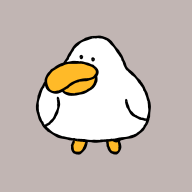
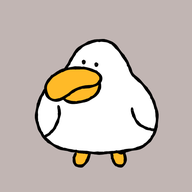
Apply duck mascot visual design

Changed region(s): [[0.1562, 0.1562, 0.8438, 0.875]]

diff --git a/style.css b/style.css
@@ -308,3 +308,38 @@ input[type="month"]::-webkit-calendar-picker-indicator{
   box-shadow:0 0 0 1px #111 inset;
   font-weight:600;
 }
+
+
+/* ===== v8 Duck visual system ===== */
+:root{
+  --duck-bg:#c5bab6;--duck-paper:#fffdfa;--duck-paper-2:#f7f2ed;
+  --duck-yellow:#ffbd2e;--duck-yellow-dark:#eda818;--duck-ink:#111111;
+  --duck-muted:#766d69;--duck-line:#161412
+}
+html,body{background:var(--duck-bg);color:var(--duck-ink)}
+body{font-family:-apple-system,BlinkMacSystemFont,"Segoe UI","PingFang TC","Noto Sans TC",sans-serif}
+.duck-header{background:rgba(255,253,250,.95);border-bottom:3px solid var(--duck-line);box-shadow:0 4px 0 rgba(17,17,17,.08);backdrop-filter:blur(10px)}
+.brand-wrap{display:flex;align-items:center;gap:11px;min-width:0}.brand-copy{min-width:0}
+.mascot-wrap{width:58px;height:58px;flex:0 0 58px;display:grid;place-items:center;overflow:hidden;border:2.5px solid var(--duck-line);border-radius:19px 22px 18px 23px;background:var(--duck-bg);transform:rotate(-2deg);box-shadow:2px 3px 0 rgba(17,17,17,.12)}
+.brand-mascot{width:66px;height:66px;object-fit:cover;display:block}
+.duck-header h1{font-size:24px;line-height:1.05;letter-spacing:.02em;font-weight:800;margin:0 0 5px}.duck-header .subtle{color:var(--duck-muted);font-size:12px;font-weight:650}
+.card{background:var(--duck-paper);border:2.5px solid var(--duck-line);border-radius:22px 26px 21px 25px;box-shadow:4px 5px 0 rgba(17,17,17,.10)}
+.card:nth-child(even){border-radius:25px 21px 26px 20px}h2,h3{font-weight:800;letter-spacing:.01em}.subtle{color:var(--duck-muted)}
+input,select{background:#fff;border:2px solid var(--duck-line);border-radius:13px 16px 12px 15px;color:var(--duck-ink);box-shadow:1px 2px 0 rgba(17,17,17,.06);font-weight:650}
+input:focus,select:focus{outline:3px solid rgba(255,189,46,.32);outline-offset:1px;border-color:var(--duck-line)}
+button{border:2px solid var(--duck-line);border-radius:13px 16px 12px 15px;font-weight:750;box-shadow:2px 3px 0 rgba(17,17,17,.12);transition:transform .08s ease,box-shadow .08s ease}
+button:active{transform:translate(1px,2px);box-shadow:1px 1px 0 rgba(17,17,17,.14)}
+.primary,.duck-button{background:var(--duck-yellow);color:var(--duck-ink)}.primary:hover,.duck-button:hover{background:var(--duck-yellow-dark)}
+.secondary{background:var(--duck-paper-2);color:var(--duck-ink)}.danger{background:#f8d9d2;color:#7b2d22}
+.side-menu{background:var(--duck-paper);border-left:3px solid var(--duck-line);box-shadow:-5px 0 0 rgba(17,17,17,.10)}
+.menu-head{padding-bottom:10px;border-bottom:2px dashed rgba(17,17,17,.28)}.menu-item{background:transparent;border:0;border-bottom:2px dashed rgba(17,17,17,.15);border-radius:0;box-shadow:none;font-weight:800}.menu-item:active{transform:none;box-shadow:none;background:#fff2c9}.icon-btn{background:var(--duck-yellow)}
+.summary-box{background:var(--duck-paper-2);border:2px solid var(--duck-line);border-radius:16px 20px 15px 19px;box-shadow:2px 3px 0 rgba(17,17,17,.08)}
+.summary-label{color:var(--duck-muted);font-weight:700}.summary-value{color:var(--duck-ink);font-weight:900}.summary-value.income,.income{color:#4f8054}.summary-value.expense,.expense{color:#bd5847}
+.section-title-with-dot{display:flex;align-items:center;gap:9px}.section-title-with-dot h2{margin:0}.duck-dot{width:16px;height:12px;display:inline-block;background:var(--duck-yellow);border:2px solid var(--duck-line);border-radius:60% 45% 55% 40%;transform:rotate(-8deg)}
+.transaction,.recurring-item{border-bottom:2px dashed rgba(17,17,17,.18)}.transaction-top,.recurring-top{font-weight:850}.transaction-meta,.recurring-meta{color:var(--duck-muted)}
+.chip{background:#fff2c9;border:2px solid var(--duck-line);box-shadow:1px 2px 0 rgba(17,17,17,.08)}
+.canvas-wrap{background:#fff;border:2px solid var(--duck-line);border-radius:18px 22px 17px 21px;box-shadow:2px 3px 0 rgba(17,17,17,.07)}
+.chart-info{background:#fff2c9;border:2px solid var(--duck-line);color:var(--duck-ink);font-weight:650;box-shadow:1px 2px 0 rgba(17,17,17,.07)}
+.legend-item{border:2px solid var(--duck-line);background:var(--duck-paper);box-shadow:1px 2px 0 rgba(17,17,17,.07)}.legend-item.selected{background:#fff2c9;border-color:var(--duck-line);box-shadow:2px 3px 0 rgba(17,17,17,.12)}
+.backup-status{background:var(--duck-paper-2);border:2px dashed rgba(17,17,17,.28)}main{padding-top:18px}
+@media(max-width:600px){.duck-header{padding-left:14px;padding-right:14px}.mascot-wrap{width:52px;height:52px;flex-basis:52px;border-radius:17px 20px 16px 21px}.brand-mascot{width:59px;height:59px}.duck-header h1{font-size:21px}.card{border-width:2px;border-radius:20px 23px 19px 22px;box-shadow:3px 4px 0 rgba(17,17,17,.09)}main{padding-left:12px;padding-right:12px}.summary-grid{gap:8px}}

diff --git a/index.html b/index.html
@@ -4,21 +4,26 @@
   <meta charset="UTF-8">
   <meta name="viewport" content="width=device-width, initial-scale=1.0, viewport-fit=cover">
   <title>我的記帳</title>
-  <link rel="manifest" href="manifest.json?v=7">
-  <link rel="stylesheet" href="style.css?v=7">
+  <link rel="manifest" href="manifest.json?v=8">
+  <link rel="stylesheet" href="style.css?v=8">
   <meta name="theme-color" content="#ffffff">
   <meta name="apple-mobile-web-app-capable" content="yes">
   <meta name="apple-mobile-web-app-status-bar-style" content="default">
   <meta name="apple-mobile-web-app-title" content="記帳">
+  <link rel="apple-touch-icon" href="icons/icon-192.png">
 </head>
 <body>
-<header>
-  <div>
-    <h1 id="page-title">我的記帳</h1>
-    <div id="page-subtitle" class="subtle">本機離線記帳</div>
+<header class="duck-header">
+  <div class="brand-wrap">
+    <div class="mascot-wrap" aria-hidden="true">
+      <img src="icons/icon-512.png" alt="" class="brand-mascot">
+    </div>
+    <div class="brand-copy">
+      <h1 id="page-title">我的記帳</h1>
+      <div id="page-subtitle" class="subtle">今天也一起把錢錢記好</div>
+    </div>
   </div>
-
-  <button id="menu-btn" class="menu-btn" aria-label="主選單">☰</button>
+  <button id="menu-btn" class="menu-btn duck-button" aria-label="主選單">☰</button>
 </header>
 
 <div id="menu-backdrop" class="menu-backdrop hidden"></div>
@@ -42,7 +47,10 @@
   <div id="home-panel" class="app-panel">
     <section class="card">
       <div class="section-header">
-        <h2>月份與收支統計</h2>
+        <div class="section-title-with-dot">
+          <span class="duck-dot" aria-hidden="true"></span>
+          <h2>月份與收支統計</h2>
+        </div>
         <input type="month" id="month-filter" aria-label="月份篩選">
       </div>
 
@@ -337,6 +345,6 @@
   </div>
 </main>
 
-<script src="app.js?v=7"></script>
+<script src="app.js?v=8"></script>
 </body>
 </html>

diff --git a/app.js b/app.js
@@ -125,12 +125,12 @@ function clearStore(name){
 /* ---------- Menu / panels ---------- */
 
 const PANEL_META={
-  "home-panel":["我的記帳","本機離線記帳"],
-  "recurring-panel":["定期自動記帳","管理固定收入與支出"],
-  "options-panel":["類別與支付方式","管理記帳選項"],
-  "charts-panel":["圖表","依區間與週期查看統計"],
+  "home-panel":["我的記帳","今天也一起把錢錢記好"],
+  "recurring-panel":["定期自動記帳","固定開銷和收入交給小鴨記住"],
+  "options-panel":["類別與支付方式","把常用選項整理得剛剛好"],
+  "charts-panel":["圖表","看看錢都跑去哪裡了"],
   "data-panel":["資料匯入 / 匯出","CSV 資料交換"],
-  "backup-panel":["本機備份","快照與 JSON 完整備份"]
+  "backup-panel":["本機備份","幫你的記帳資料多留一份"]
 };
 
 function openMenu(){
@@ -2002,7 +2002,7 @@ if("serviceWorker" in navigator){
   window.addEventListener("load",async()=>{
     try{
       const registration=await navigator.serviceWorker.register(
-        "./sw.js?v=7",
+        "./sw.js?v=8",
         {updateViaCache:"none"}
       );
       await registration.update();

diff --git a/sw.js b/sw.js
@@ -1,11 +1,13 @@
-const CACHE_NAME="accounting-pwa-v7";
+const CACHE_NAME="accounting-pwa-v8";
 
 const FILES_TO_CACHE=[
   "./",
   "./index.html",
-  "./style.css?v=7",
-  "./app.js?v=7",
-  "./manifest.json?v=7"
+  "./style.css?v=8",
+  "./app.js?v=8",
+  "./manifest.json?v=8",
+  "./icons/icon-192.png",
+  "./icons/icon-512.png"
 ];
 
 self.addEventListener("install",event=>{

diff --git a/README.md b/README.md
@@ -1,48 +1,21 @@
-# Accounting PWA v7
+# Accounting PWA v8 — Duck Visual Design
 
-## 圓餅圖選取效果
-選取支出分類後：
-- 該扇形向外突出
-- 該扇形半徑略微放大
-- 外框加粗
-- 對應 legend 加上選取框
-- 下方顯示分類、占比與金額
+主視覺改為使用者提供的白色小鴨 icon。
 
-可用兩種方式選取：
-1. 點圓餅圖扇形
-2. 點分類 legend
+## 視覺語言
+- 手繪 / doodle
+- 粗黑不規則輪廓
+- 圓潤、親切 mascot
+- 暖灰紫背景
+- 米白紙張卡片
+- 鴨嘴黃作為主要 CTA 色
+- 少量不規則圓角、陰影與虛線
 
-## 收支趨勢選取效果
-點擊任一：
-- 收入 bar
-- 支出 bar
-- 結餘折線上的 point
-
-就會選取「整個當期」。
-
-選取後：
-- 當期收入 / 支出 bar 加框
-- 結餘 point 放大
-- 當期背景淡色標示
-- 下方同時顯示：
-  - 收入
-  - 支出
-  - 結餘
-
-例如：
-2026/10
-收入：$50,000　支出：$18,500　結餘：$31,500
-
-## PWA 更新
-靜態資源版本升為 v7：
-- style.css?v=7
-- app.js?v=7
-- manifest.json?v=7
-- accounting-pwa-v7 cache
-
-## Git 更新
+## 更新
+```bash
 git add .
-git commit -m "Add interactive chart selection details"
+git commit -m "Apply duck mascot visual design"
 git push
+```
 
-資料庫 DB_VERSION 仍為 4，不會清除既有資料。
+DB_VERSION 不變，既有資料不受影響。
